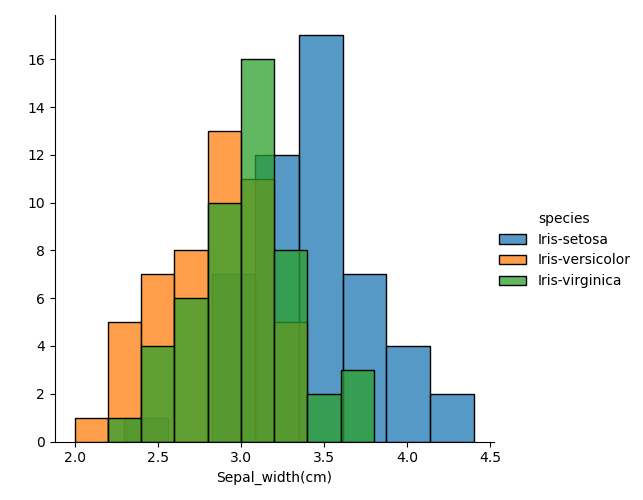
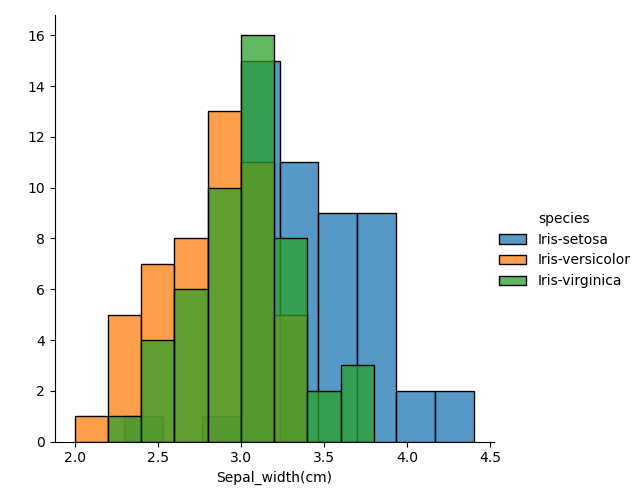
Code, plots and read me file updates

diff --git a/analysis.py b/analysis.py
@@ -21,55 +21,80 @@ from sklearn.model_selection import train_test_split #to split the dataset for t
 
 # Import the dataset from iris.csv file 
 path = ""
-filenameForIrisData = path + "iris.csv"
-df = pd.read_csv(filenameForIrisData)
+filenameForIrisData = path + "irisoriginal.csv"
+dataframe = pd.read_csv(filenameForIrisData)
 
 # Rename column titles
 # https://www.geeksforgeeks.org/python-pandas-dataframe-rename/
-iris_df = df.rename(columns = {"sepallength" : "Sepal_length(cm)", "sepalwidth" : "Sepal_width(cm)", "petallength" : "Petal_length(cm)", "petalwidth" : "Petal_width(cm)", "class" : "species"})
+iris_dataframe = dataframe.rename(columns = {"sepallength" : "Sepal_length(cm)", "sepalwidth" : "Sepal_width(cm)", "petallength" : "Petal_length(cm)", "petalwidth" : "Petal_width(cm)", "class" : "species"})
 
 # To show the full list print (iris_df), but for now I just want to see the first 5 rows of data 
-print(iris_df.head(5))   
+print(iris_dataframe.head(5))   
 
 # To show the shape of the dataset : (150, 5) 150 rows, 5 columns
 # https://www.c-sharpcorner.com/article/a-first-machine-learning-project-in-python-with-iris-dataset/
-print(iris_df.shape)
+print(iris_dataframe.shape)
 
 # Shows the number of instances and the number of attributes in the dataset. 
 # Show if there are any null values
-print(iris_df.info())
+print(iris_dataframe.info())
 
 # View how many instances the data frame containsby species
 # https://www.c-sharpcorner.com/article/a-first-machine-learning-project-in-python-with-iris-dataset/
-print(iris_df.groupby('species').size())   
+print(iris_dataframe.groupby('species').size())   
 
 # Shows the basic statistical details of a the dataframe (iris dataset)
 # https://www.kaggle.com/adityabhat24/iris-data-analysis-and-machine-learning-python
-print(iris_df.describe())  
+print(iris_dataframe.describe())  
 
 # Shows the first 5 rows of each type of species
 # https://www.geeksforgeeks.org/python-basics-of-pandas-using-iris-dataset/
-print(iris_df[0:5])
-print(iris_df[50:55])
-print(iris_df[100:105])  
+print(iris_dataframe[0:5])
+print(iris_dataframe[50:55])
+print(iris_dataframe[100:105])  
 
 # Shows if duplicates exist within the dataset 
-print(iris_df.duplicated().sum())
+print(iris_dataframe.duplicated().sum())
 
 # Shows the duplicated rows 
-print (iris_df[iris_df.duplicated()]) 
+print (iris_dataframe[iris_dataframe.duplicated()]) 
 
 # To output a summary of each variable (feature) to a single text file
 # input has to be in string format
 # class lectures showed how to export to a newly created txt file
 # https://towardsdatascience.com/how-to-use-groupby-and-aggregate-functions-in-pandas-for-quick-data-analysis-c19e7ea76367
 with open("Variable_Summary.txt", "wt") as f:
-    print ("Shape of Data \n", str(iris_df.shape),"\n", file = f) 
-    print ("Count by Species \n", str(iris_df.groupby('species').size()),"\n", file = f)
-    print ("Statistical Data of Dataset by feature \n", str(iris_df.describe()),"\n", file = f)
-    print ("Summary of each feature by species \n",str(iris_df.groupby("species").describe()), "\n", file = f)
+    print ("Shape of Data \n", str(iris_dataframe.shape),"\n", file = f) 
+    print ("Count by Species \n", str(iris_dataframe.groupby('species').size()),"\n", file = f)
+    print ("Statistical Data feature \n", str(iris_dataframe.describe()),"\n", file = f)
+    print ("Summary of each feature by species \n",str(iris_dataframe.groupby("species").describe()), "\n", file = f)
 
+# The duplicate row analysis above highlighted that my original dataset was incorrect (only 1 duplicate should exist, not 3).  
+# Therefore I import the correct iris dataset.   
 
+path = ""
+filenameForIrisData = path + "iris.csv"
+df = pd.read_csv(filenameForIrisData)
+
+iris_df = df.rename(columns = {"sepallength" : "Sepal_length(cm)", "sepalwidth" : "Sepal_width(cm)", "petallength" : "Petal_length(cm)", "petalwidth" : "Petal_width(cm)", "class" : "species"})
+
+# Checking to ensure I now only have 1 duplicate  
+print(iris_df.duplicated().sum())
+print (iris_df[iris_df.duplicated()])   
+
+# I start by showing a simple histogram of each 4 features
+# https://www.python-graph-gallery.com/25-histogram-with-several-variables-seaborn
+
+# This sets out the layout and size of the visual ouput
+fig, axs = plt.subplots(2, 2, figsize=(7, 7))
+
+# list the data source, followed by the x axis source, the colour of the columns and the position in the layout
+sns.histplot(data=iris_df, x="Sepal_length(cm)", color="skyblue", ax=axs[0, 0])
+sns.histplot(data=iris_df, x="Sepal_width(cm)", color="olive", ax=axs[0, 1])
+sns.histplot(data=iris_df, x="Petal_length(cm)", color="gold", ax=axs[1, 0])
+sns.histplot(data=iris_df, x="Sepal_width(cm)", color="teal", ax=axs[1, 1])
+plt.savefig("Features_Histogram.png")
+plt.show()
 
 # Plotting, displaying and saving a histogram of each variable to png files  
 # https://www.kaggle.com/dhruvmak/iris-flower-classification-with-eda
@@ -126,7 +151,8 @@ sns.violinplot(x='species',y='Petal_width(cm)',data=iris_df)
 plt.subplot(2,2,3)
 sns.violinplot(x='species',y='Sepal_length(cm)',data=iris_df)
 plt.subplot(2,2,4)
-sns.violinplot(x='species',y='Sepal_width(cm)',data=iris_df)
+sns.violinplot(x='species',y='Sepal_width(cm)',data=iris_df) 
+plt.savefig("Violin_plot.png")
 plt.show()
 
 
@@ -135,6 +161,7 @@ plt.show()
 # Scatterplot matrices are very good visualization tools and may help identify correlations or lack of it
 # https://www.kaggle.com/biphili/seaborn-matplotlib-iris-data-visualization-code-1
 sns.pairplot(iris_df, hue="species", diag_kind="kde")
+plt.savefig("Pairsplot.png")
 plt.show()
 
 
@@ -153,6 +180,7 @@ print(iris_df.corr())
 # https://www.kaggle.com/ash316/ml-from-scratch-with-iris
 plt.figure(figsize=(15,10))
 sns.heatmap(iris_df.corr(), annot = True, cmap = 'rocket') 
+plt.savefig("Heatmap.png")
 plt.show()
 
 from sklearn.datasets import load_iris

diff --git a/projectTestWork/5.1.histogram.py b/projectTestWork/5.1.histogram.py
@@ -52,9 +52,26 @@ plt.xlabel("Petal Width cm")
 plt.ylabel("Count")
 # plt.savefig("Petal_Width.png")
 plt.show()
+
+
+# histograms 
+
+sns.FacetGrid(iris_df,height=5).map(sns.histplot,"petallengthcm").add_legend()
+plt.subplot(2,2,1)    
+# plt.savefig("Petal_Length.png")
+sns.FacetGrid(iris_df,height=5).map(sns.histplot,"petalwidthcm").add_legend()
+plt.subplot(2,2,2)  
+# plt.savefig("Petal_Width.png")
+sns.FacetGrid(iris_df,height=5).map(sns.histplot,"sepallengthcm").add_legend()
+plt.subplot(2,2,3)  
+# plt.savefig("Sepal_Length.png")
+sns.FacetGrid(iris_df,height=5).map(sns.histplot,"sepalwidthcm").add_legend()
+plt.subplot(2,2,4)  
+# plt.savefig("Histograms.png")
+plt.show()
+
+
 '''
-
-
 # histograms by species 
 sns.FacetGrid(iris_df,hue="species",height=5).map(sns.histplot,"petallengthcm").add_legend()
 # plt.subplot(2,2,1)    
@@ -70,3 +87,14 @@ sns.FacetGrid(iris_df,hue="species",height=5).map(sns.histplot,"sepalwidthcm").a
 # plt.savefig("Sepal_Width.png")
 plt.show()
 
+
+fig, axs = plt.subplots(2, 2, figsize=(7, 7))
+
+sns.histplot(data=iris_df, x="sepallengthcm", color="skyblue", ax=axs[0, 0])
+sns.histplot(data=iris_df, x="sepalwidthcm", color="olive", ax=axs[0, 1])
+sns.histplot(data=iris_df, x="petallengthcm", color="gold", ax=axs[1, 0])
+sns.histplot(data=iris_df, x="petalwidthcm", color="teal", ax=axs[1, 1])
+plt.savefig("Features Histogram.png")
+plt.show()
+
+# https://www.python-graph-gallery.com/25-histogram-with-several-variables-seaborn

diff --git a/README.md b/README.md
@@ -14,11 +14,11 @@
     2. [Understanding the dataset](#understandingthedataset)
     3. [Initial Dataset Analysis](#initialdatasetanalysis)
 4. [Data Visualisation](#datavisualisaton)
-    1. [Univariate Analysis](#univariateanalysis)
+    1. [Univariate & Bivariate Analysis](#univariateanalysis)
         1. [Historgrams](#histograms)
         1. [Boxplots](#boxplots)
         1. [Violinplots](#violinplots)
-        1. [Univariate Analysis](#univariateanalysis)
+        1. [Univariate & Bivariate Analysis](#univariateanalysis)
     2. [Multivariate Analysis](#multivariateanalysis)
         1. [Scatterplot (Pairsplot)](#scatterplot)
         1. [Correlation and Heatmaps](#correlationandHeatmaps)
@@ -45,7 +45,21 @@
 The 2021 Programming and Scripting project is based on the well-known Fisher's Iris Dataset.  
 The project task was to investigate, analyse and present my findings on the dataset using python.       
 
-** List all the files in the folder**  
+The following files make up my project submission
+1. README file  
+2. Analysis.py (python script file) 
+3. Iris dataset (iris.csv and irisoriginal.csv)   
+4. Variable Summary txt file  
+5. Plots
+    - Features Histogram
+    - Petal Length
+    - Petal Width 
+    - Sepal Length 
+    - Sepal Width 
+    - Box Plot 
+    - Violin Plot 
+    - Pairs Plot 
+    - Heatmap  
 
 
 ### Python Programs used in Project <a name="PythonProgramsusedinProject"></a>
@@ -253,15 +267,18 @@ To extract this data into a newly created single text file, we need to make the 
         with open("Variable_Summary.txt", "wt") as f:  
         print ("Shape of Data \n", str(iris_df.shape),"\n", file = f)  
         print ("Count by Species \n", str(iris_df.groupby('species').size()),"\n", file = f)  
-        print ("Statistical Data of Dataset by feature \n", str(iris_df.describe()),"\n", file = f)  
+        print ("Statistical Data by feature \n", str(iris_df.describe()),"\n", file = f)  
         print ("Summary of each feature by species \n",str(iris_df.groupby("species").describe()), "\n", file = f)
 
 ### Initial Dataset Analysis <a name="initialdatasetanalysis"></a>  
 
 Summary of the intial findings show a dataset of 50 rows each for 3 different species of the Iris flower, with no null values in the dataset.  
-The statisical details of the dataset show that the mean range from 5.84 on the sepal length down to 1.19 on the petal width.  
-When I check for duplicates I expect to only see 1 as per Ronald Fisher's dataset but instead it shows 3 duplicates. This highlights the importance of ensuring you upload the most up to date and accurate dataset.  
+The statisical details of the dataset show that the mean range from 5.84 on the sepal length down to 1.19 on the petal width.     
+The 50% for Sepal length and Sepal width are very close to the mean, this indicates a normal distribution as 50% of the results are above the median and 50% are below.   
+In contrast for Petal length, its 50% is higher than the median of 3.75. Therefore 50% of the results are above 4.35, and the remaining 50% below 4.35. This indicates the distribution is skewed. 
 
+When I check for duplicates I expect to only see 1 as per Ronald Fisher's dataset but instead it shows 3 duplicates. It is noted on the UCI - Machine learning repository webpage that the dataset on their page differs from the data presented in Fishers article. This highlights the fundamental importance of ensuring you upload the most up to date and accurate dataset.   
+I change my dataset to reflect the correct data and all analysis herein in the project are based on the correct data as listed on Ronald Fisher's article.  
 
 https://www.c-sharpcorner.com/article/a-first-machine-learning-project-in-python-with-iris-dataset/
 https://www.c-sharpcorner.com/article/a-first-machine-learning-project-in-python-with-iris-dataset/
@@ -274,16 +291,35 @@ https://www.geeksforgeeks.org/python-basics-of-pandas-using-iris-dataset/
 
 With a basic understanding of the dataset, we move to data visualisation to help us compare and observe trends within the data.  
 
-There are many visualation options within python using matplotlib and seaborn.    
+Python has many visualation options using matplotlib and seaborn libraries. I explore some of these options in my Univariate, Bivariate and Multivariate analysis outlined below. 
 
-### Univariate Analysis <a name="univariateanalysis"></a>  
+### Univariate & Bivariate Analysis <a name="univariateanalysis"></a>  
 
 Univariate analysis is the simplest form of analysing data.   
-“Uni” means “one”, so in other words the data has only one variable. It doesn’t deal with causes or relationships and its major purpose is to describe; it takes data, summarizes that data and finds patterns in the data. In my univariate analysis, I will analyise each feature separately by species. 
+“Uni” means “one”, so in other words the data has only one variable. It doesn’t deal with causes or relationships and its major purpose is to describe; it takes data, summarizes that data and finds patterns in the data. Bivariate analysis is used to find out if there is a relationship between two different variables. For this part of my analyis, I will treat the species as one variable and the individual features as th other variable.  
 
 #### Historgrams <a name="histograms"></a> 
 
-Histograms is a classic visualisation tool that show the distribution of the number of observations that fall within in a bin.    
+Histograms is a classic visualisation tool that show the distribution of the number of observations that fall within in a bin.      
+
+I being start by showing a simple histogram of each of the 4 features. 
+
+The first line of code sets out the layout and size of the visual ouput.   
+To build the histogram I outline the source of the data, the x axis source, the colour of the columns and the position in the layout.     
+
+    fig, axs = plt.subplots(2, 2, figsize=(7, 7))
+    sns.histplot(data=iris_df, x="Sepal_length(cm)", color="skyblue", ax=axs[0, 0])
+    sns.histplot(data=iris_df, x="Sepal_width(cm)", color="olive", ax=axs[0, 1])
+    sns.histplot(data=iris_df, x="Petal_length(cm)", color="gold", ax=axs[1, 0])
+    sns.histplot(data=iris_df, x="Sepal_width(cm)", color="teal", ax=axs[1, 1])
+    plt.savefig("Features_Histogram.png")
+    plt.show()  
+
+![](Features_Histogram.png) 
+
+While Univariate visuals are useful for an overall data group summary, it doesn't help us to analyse by the species.  
+I move from Univariate to Bivariate Histograms to bring in the class of species by feature into the visuals. 
+
 FacetGrid within Seaborn is a multi-plot grid to help visualise distribution of a variable.  
 The 'hue' option allows a variable that determines the colour of the plot elements, in this case it is species that drives the different colours on the visual.   
 
@@ -297,10 +333,10 @@ The 'hue' option allows a variable that determines the colour of the plot elemen
     plt.savefig("Sepal_Width.png")
     plt.show()   
 
-![](images/3.1.1.Histogram_PetalLength.PNG) 
-![](images/3.1.1.Histogram_PetalWidth.PNG) 
-![](images/3.1.1.Histogram_SepalLength.PNG)   
-![](images/3.1.1.Histogram_SepalWidth.PNG)   
+![](Petal_Length.png) 
+![](Petal_Width.png) 
+![](Sepal_Length.png)   
+![](Sepal_Width.png)   
 
 The outputting plots show that for petal length and petal width we can separate/differeniate the species Setosa from the other 2 species Virginica and Versicolor.    
 Using sepal length and sepal width, it is not possible from looking at histogram charts to separate the flowers as the results overlap between all 3 species.   
@@ -355,18 +391,19 @@ On the plot the x axis is the species type, y axis is the attribute.
     sns.violinplot(x='species',y='Sepal_length(cm)',data=iris_df)
     plt.subplot(2,2,4)
     sns.violinplot(x='species',y='Sepal_width(cm)',data=iris_df)
+    plt.savefig("Violin_plot.png")
     plt.show()    
 
-![](images/3.1.3.violinplot.PNG)       
+![](Violin_plot.png)       
 
 The Violinplot shows that Iris Virginica has highest median value in petal length, petal width and sepal length when compared against Versicolor and Setosa.  
 However, Iris Setosa has the highest sepal width median value.     
 The violin plot also indicates that the weight of the Setosa's petal length and petal width are highly concentrated around the median (i.e. they are fatter around the median), where are the Versicolor and Virginica are thinner for both of these features. 
 
 
-#### Univariate Conclusion <a name="univariateconclusion"></a>  
+#### Univariate & Bivariate Conclusion <a name="univariateconclusion"></a>  
 
-Summary of all 3 of my Univariate analysis (Histograms, Boxplots and Violinplots) show for the Iris Setosa the petal length and petal width is visually clearly different from the Veriscolor and Virginica.   
+Summary of all 3 of my analysis (Histograms, Boxplots and Violinplots) show for the Iris Setosa the petal length and petal width is visually clearly different from the Veriscolor and Virginica.   
 
 
 ### Multivariate Analysis <a name="multivariateanalysis"></a>    
@@ -388,7 +425,10 @@ Diag_kind="kde" determines that the plot of the diagonal subplots, I have chosen
 
 For each pair of variables, we can use a scatter plot to visualize their joint distribution 
     sns.pairplot(iris_df, hue="species", diag_kind="kde")  
-    plt.show()  
+    plt.savefig("Pairsplot.png")
+    plt.show()    
+
+![](Pairsplot.png)       
 
 The plot shows that the Petal length and Petal width are the most effective features to identify the different species of Iris. The species of Virginica and Versicolor cannot be easily separated based on their measurements. 
 
@@ -411,9 +451,10 @@ Using the heatmap feature in Seaborn, we show the values on the heatmap by inser
 
     plt.figure(figsize=(15,10))
     sns.heatmap(iris_df.corr(), annot = True, cmap = 'rocket') 
+    plt.savefig("Heatmap.png")
     plt.show()
 
-![](images/3.1.2.heatmaps.PNG)   
+![](Heatmap.png)   
 
  
    
@@ -424,7 +465,7 @@ On the opposite end, the sepal width and the sepal length have the lowest correl
 
 #### Multivariate Conclusion <a name="multivariateconclusion"></a>    
 
-Similar to the univariate analysis, the Pairsplot shows petal length and petal width to be the best combination of features to determine the species of the flower by their measurements alone. There is clustering in the Versicolor and Virginica species across all features but less so in the petal length and petal width.  
+Similar to the univariate & bivariate analysis, the Pairsplot shows petal length and petal width to be the best combination of features to determine the species of the flower by their measurements alone. There is clustering in the Versicolor and Virginica species across all features but less so in the petal length and petal width.  
 
 For the heatmap if there are features that are highly correlated, then training an algorithm with all the features will reduce the accuracy.  
 We have some features that are highly correlated, in particular the pairings of Sepal length/Petal length, Petal Width/Petal length and Sepal length/Petal Width.  
@@ -432,6 +473,7 @@ We have some features that are highly correlated, in particular the pairings of 
 Therefore if I was given a new sample of data for the 4 features of the iris flower, I could best predict the species visually by using the Petal Width/Petal length dimensions. 
 However the next section will cover how Python can predict the species. 
 
+https://www.python-graph-gallery.com/25-histogram-with-several-variables-seaborn
 https://stackabuse.com/ultimate-guide-to-heatmaps-in-seaborn-with-python/  
 https://www.kaggle.com/ash316/ml-from-scratch-with-iris  
 http://www.cse.msu.edu/~ptan/dmbook/tutorials/tutorial3/tutorial3.html
@@ -439,6 +481,7 @@ https://www.c-sharpcorner.com/article/a-first-machine-learning-project-in-python
 https://medium.com/@avulurivenkatasaireddy/exploratory-data-analysis-of-iris-data-set-using-python-823e54110d2d
 https://www.kaggle.com/dhruvmak/iris-flower-classification-with-eda  
 https://stats.stackexchange.com/questions/392517/how-can-one-interpret-a-heat-map-plot    
+ 
 
 
 ## Machine Learning <a name="machinelearning"></a>       
@@ -630,23 +673,30 @@ Finally, the classification report provides a breakdown of each class by precisi
 
 ## Project Conclusion <a name="projectconclusion"></a>     
 
-The Mayplotlib and Seaborn libraries have many features to visually display the data for univariate, bivariate and multivariate analysis. While the Iris dataset is relatively small, these libraries come into their own when dealing with the large dataset that exist in today's world.     
+The initial data analysis shows a relativily small dataset of 50 samples for 3 species with no null values. However when checking for duplicates, it showed I had 3 instead of the expected 1. This highlights the fundamental importance of ensuring you upload the most up to date and accurate dataset. The output you get out is only as good and as accurate as the data you put in. 
+
+The Mayplotlib and Seaborn libraries have many features to visually display the data for univariate, bivariate and multivariate analysis. While the Iris dataset is relatively small, these libraries come into their own when dealing with the large dataset that exist in today's world.  
+Starting with Univariate and Bivariate visuals, I build up my understanding of the dataset and started to see trends in petal length feature that indicate it would be the best feature to predict a species by.  
 
 The analysis part of this project shows that the species Setosa is visually different from Veriscolor and Virginica.   
 The background of the dataset reveals that two of the three species were collected in the Gaspé Peninsula "all from the same pasture, and picked on the same day and measured at the same time by the same person with the same apparatus".   
 This poses the question that if Veriscolor and Virginica were picked on the same day with the same apparatus and by the same person, and the Setosa was picked on a different day using a differen apparatus did it influence the outcome as the results of Veriscolor and Virginica are so similar. 
-However Ronald Fisher mentions in his paper that the he uses the "measurements of the flowers of fifty plants each of the two species Iris setosa and Iris versicolor, found growing together in the same colony and measured by Dr E. Anderson", my presumption is it was Setosa and Veriscolor that were measured on the same day. 
+However Ronald Fisher mentions in his paper that the he uses the "measurements of the flowers of fifty plants each of the two species Iris setosa and Iris versicolor, found growing together in the same colony and measured by Dr E. Anderson", my presumption is it was Setosa and Veriscolor that were measured on the same day.   
 
+I then moved onto the Multivariate analysis, the Pairs plot showed the best feature combination to predict the species visually is by using the Petal Width/Petal length dimensions. If I had new sample data for the 4 features of the Iris flower, I could best predict the species visually by using these features.  
 
-An interesting example of this is where a computer scientist developed a machine learning system called 'Giraffe' that can play International Master level of chess in 72 hours. It learnt by playing chess against itself. While the system was fed a massive dataset of moves from real chess matches, it used those moves in games it plays against itself, learning which worked in which situation, until it has enough of a knowledge base, 
+However since Machine learning and artificial intelligence-based projects are what the future holds, I took the path of using Python to explore machine learning to predict the species.   
 
+Python supports machine learning through its extensive set of libraries especially the Scikit-learn library which I used in my testing.  I did a an 8 step process from training and testing the dataset, using the KNN algorithm to predict the species, checking the accuracy of the KNN model and finished up with checking it against some of the other machine learning algorithms with a final model selection based on the most accurate model which turned out to be LDA (Linear discriminant analysis).  
 
+An interesting example of Machine learning is where a computer scientist developed a machine learning system called 'Giraffe' that can play International Master level of chess in 72 hours. It learnt by playing chess against itself. While the system was fed a massive dataset of moves from real chess matches, it used those moves in games it plays against itself, learning which worked in which situation, all the time building up its knowledge base. Fundamentally we are teaching technology to teach itself.   
+
+While the Iris dataset is not on the scale of the chess example above, it is a great example of showing at an introduction level how we can use machine learning programming languages to think like a human brain does.
 
 
 ## References <a name="references"></a>   
 
 1. https://www.c-sharpcorner.com/article/a-first-machine-learning-project-in-python-with-iris-dataset/
-2. https://www.c-sharpcorner.com/article/a-first-machine-learning-project-in-python-with-iris-dataset/
 3. https://www.kaggle.com/adityabhat24/iris-data-analysis-and-machine-learning-python
 4. https://towardsdatascience.com/how-to-use-groupby-and-aggregate-functions-in-pandas-for-quick-data-analysis-c19e7ea76367
 5. https://www.geeksforgeeks.org/python-basics-of-pandas-using-iris-dataset/  
@@ -660,4 +710,5 @@ An interesting example of this is where a computer scientist developed a machine
 13. https://www.c-sharpcorner.com/article/a-first-machine-learning-project-in-python-with-iris-dataset/    
 14. https://medium.com/@avulurivenkatasaireddy/exploratory-data-analysis-of-iris-data-set-using-python-823e54110d2d
 15. https://www.kaggle.com/dhruvmak/iris-flower-classification-with-eda  
-16. https://stats.stackexchange.com/questions/392517/how-can-one-interpret-a-heat-map-plot   
+16. https://stats.stackexchange.com/questions/392517/how-can-one-interpret-a-heat-map-plot     
+17. https://qz.com/502325/an-ai-computer-learned-how-to-beat-almost-anyone-at-chess-in-72-hours/
